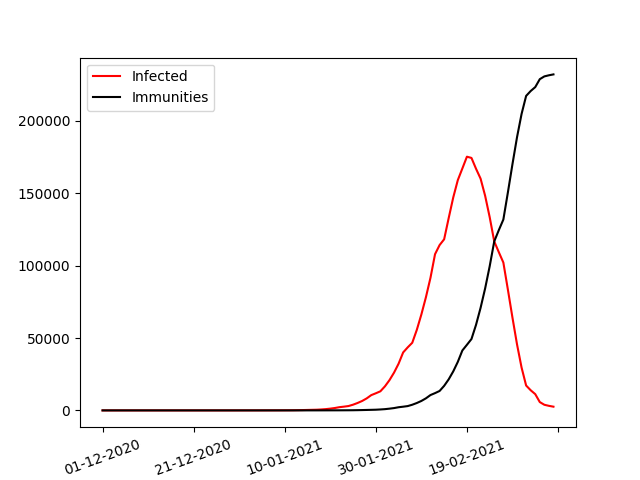
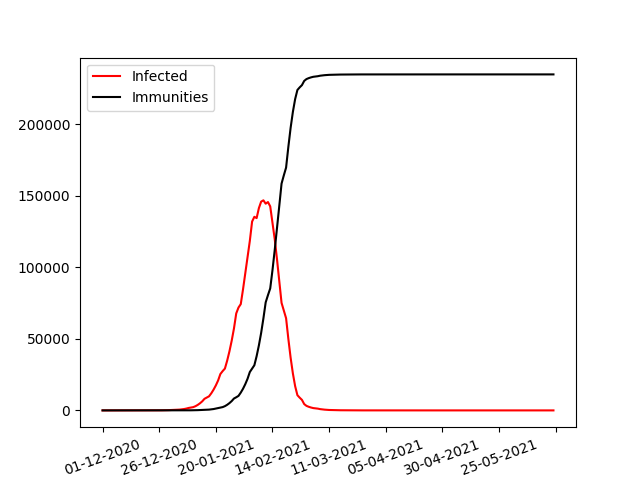
Made disease, runtime and start date be populated from the database

diff --git a/Places/place.py b/Places/place.py
@@ -249,24 +249,8 @@ class Country(container.Container):
 
         # make halfway houses
         halfwayCount = (math.pow(len(self.objects)-1, 2) - len(self.objects)-1)/2  # Triangle numbers
-        # TODO make list of used combination indexes?
-        self.halfwayHouses = [[Building("Everyday", "HalfwayHouse", 0.5, []) for x in range(len(cityDetails))] for y in range(len(cityDetails))]
+        self.halfwayHouses = [[Building("Everyday", "HalfwayHouse", 0.1, []) for x in range(len(cityDetails))] for y in range(len(cityDetails))]
         usedIndexes = []
-        # TODO Make cities return the people to add to the halfway house
-
-        # Pog 07/01/2022
-        # totalDistance = 0  # sum of all the inverse distances between cities
-        # for row in matrix:
-        #     for item in row:
-        #         totalDistance += item
-        #
-        # rowCounter = 0
-        # for row in matrix:
-        #     itemCounter = 0
-        #     for item in row:
-        #         self.percentageMatrix[rowCounter][itemCounter] = (item / totalDistance)
-        #         itemCounter += 1
-        #     rowCounter += 1
 
     def timeStep(self, disease, day):
         for o in self.objects:
@@ -276,11 +260,6 @@ class Country(container.Container):
             for col in range(row+1, len(self.halfwayHouses[0])):
                 self.halfwayHouses[row][col].hosts += self.objects[row].getCommuters(self.percentageMatrix[row][col])
                 self.halfwayHouses[row][col].hosts += self.objects[col].getCommuters(self.percentageMatrix[col][row])
-
-        # for cityFrom, row in enumerate(self.halfwayHouses):
-        #     for cityTo, halfwayHouse in enumerate(row):
-        #         if len(self.halfwayHouses[cityTo][cityFrom].hosts) == 0:
-        #             halfwayHouse.hosts += self.objects[cityFrom].getCommuters(self.percentageMatrix[cityFrom][cityTo])
 
         for row in self.halfwayHouses:
             for h in row:

diff --git a/databaseHandler.py b/databaseHandler.py
@@ -52,3 +52,16 @@ class DatabaseHandler(object):
         # returns the percentage of the population that travel to different cities
         self.cursor.execute('select CommutePercentage from City where CityID = \'{}\''.format(cityName))
         return self.cursor.fetchall()
+
+    def getDisease(self, disease):
+        self.cursor.execute('select Duration, LatencyPeriod, InfectionChance, ImmuneProbability from Disease where DiseaseID = \'{}\''.format(disease))
+        return self.cursor.fetchall()[0]
+
+    def getRuntime(self):
+        self.cursor.execute('select RunTime from Simulation where SimulationConfiguration = {}'.format(self.configuration))
+        return self.cursor.fetchall()[0]
+
+    def getStartDate(self):
+        self.cursor.execute('select StartDate from Simulation where SimulationConfiguration = {}'.format(self.configuration))
+        date = self.cursor.fetchall()[0][0]
+        return [date.day, date.month, date.year]

diff --git a/main.py b/main.py
@@ -3,17 +3,13 @@ import model
 import databaseHandler
 
 if __name__ == '__main__':
+    configurationNumber = 1
 
-    runtime = 100
-    dbHandler = databaseHandler.DatabaseHandler(1)
+    dbHandler = databaseHandler.DatabaseHandler(configurationNumber)
+    startDate = dbHandler.getStartDate()
+    runtime = dbHandler.getRuntime()
+    disease = disease.Disease(dbHandler.getDisease("Common Cold"))
 
-    startDateDay = 1
-    startDateMonth = 12
-    startDateYear = 2020
-    startDate = [startDateDay, startDateMonth, startDateYear]
-    # TODO populate runtime and start date from the database
-
-    disease = disease.Disease()
     # TODO for modeling vectors record the number of vectors that will be in each environment. Then use those numbers when infecting. instead of for each infected person it will be for each vector
     model = model.Model(disease, runtime, startDate, dbHandler)
     model.run()

diff --git a/disease.py b/disease.py
@@ -3,10 +3,10 @@ from Framework import disease
 
 class Disease(disease.Disease):
 
-    def __init__(self):
+    def __init__(self, diseaseDetails):
         super(Disease, self).__init__()
-        self.latencyPeriod = 2
-        self.infectionChance = 0.1
-        self.duration = 14
-        self.immunityProb = 100
-        # TODO populate this from the database
+        self.latencyPeriod = diseaseDetails[1]
+        self.infectionChance = diseaseDetails[2]
+        self.duration = diseaseDetails[0]
+        self.immunityProb = diseaseDetails[3]
+
